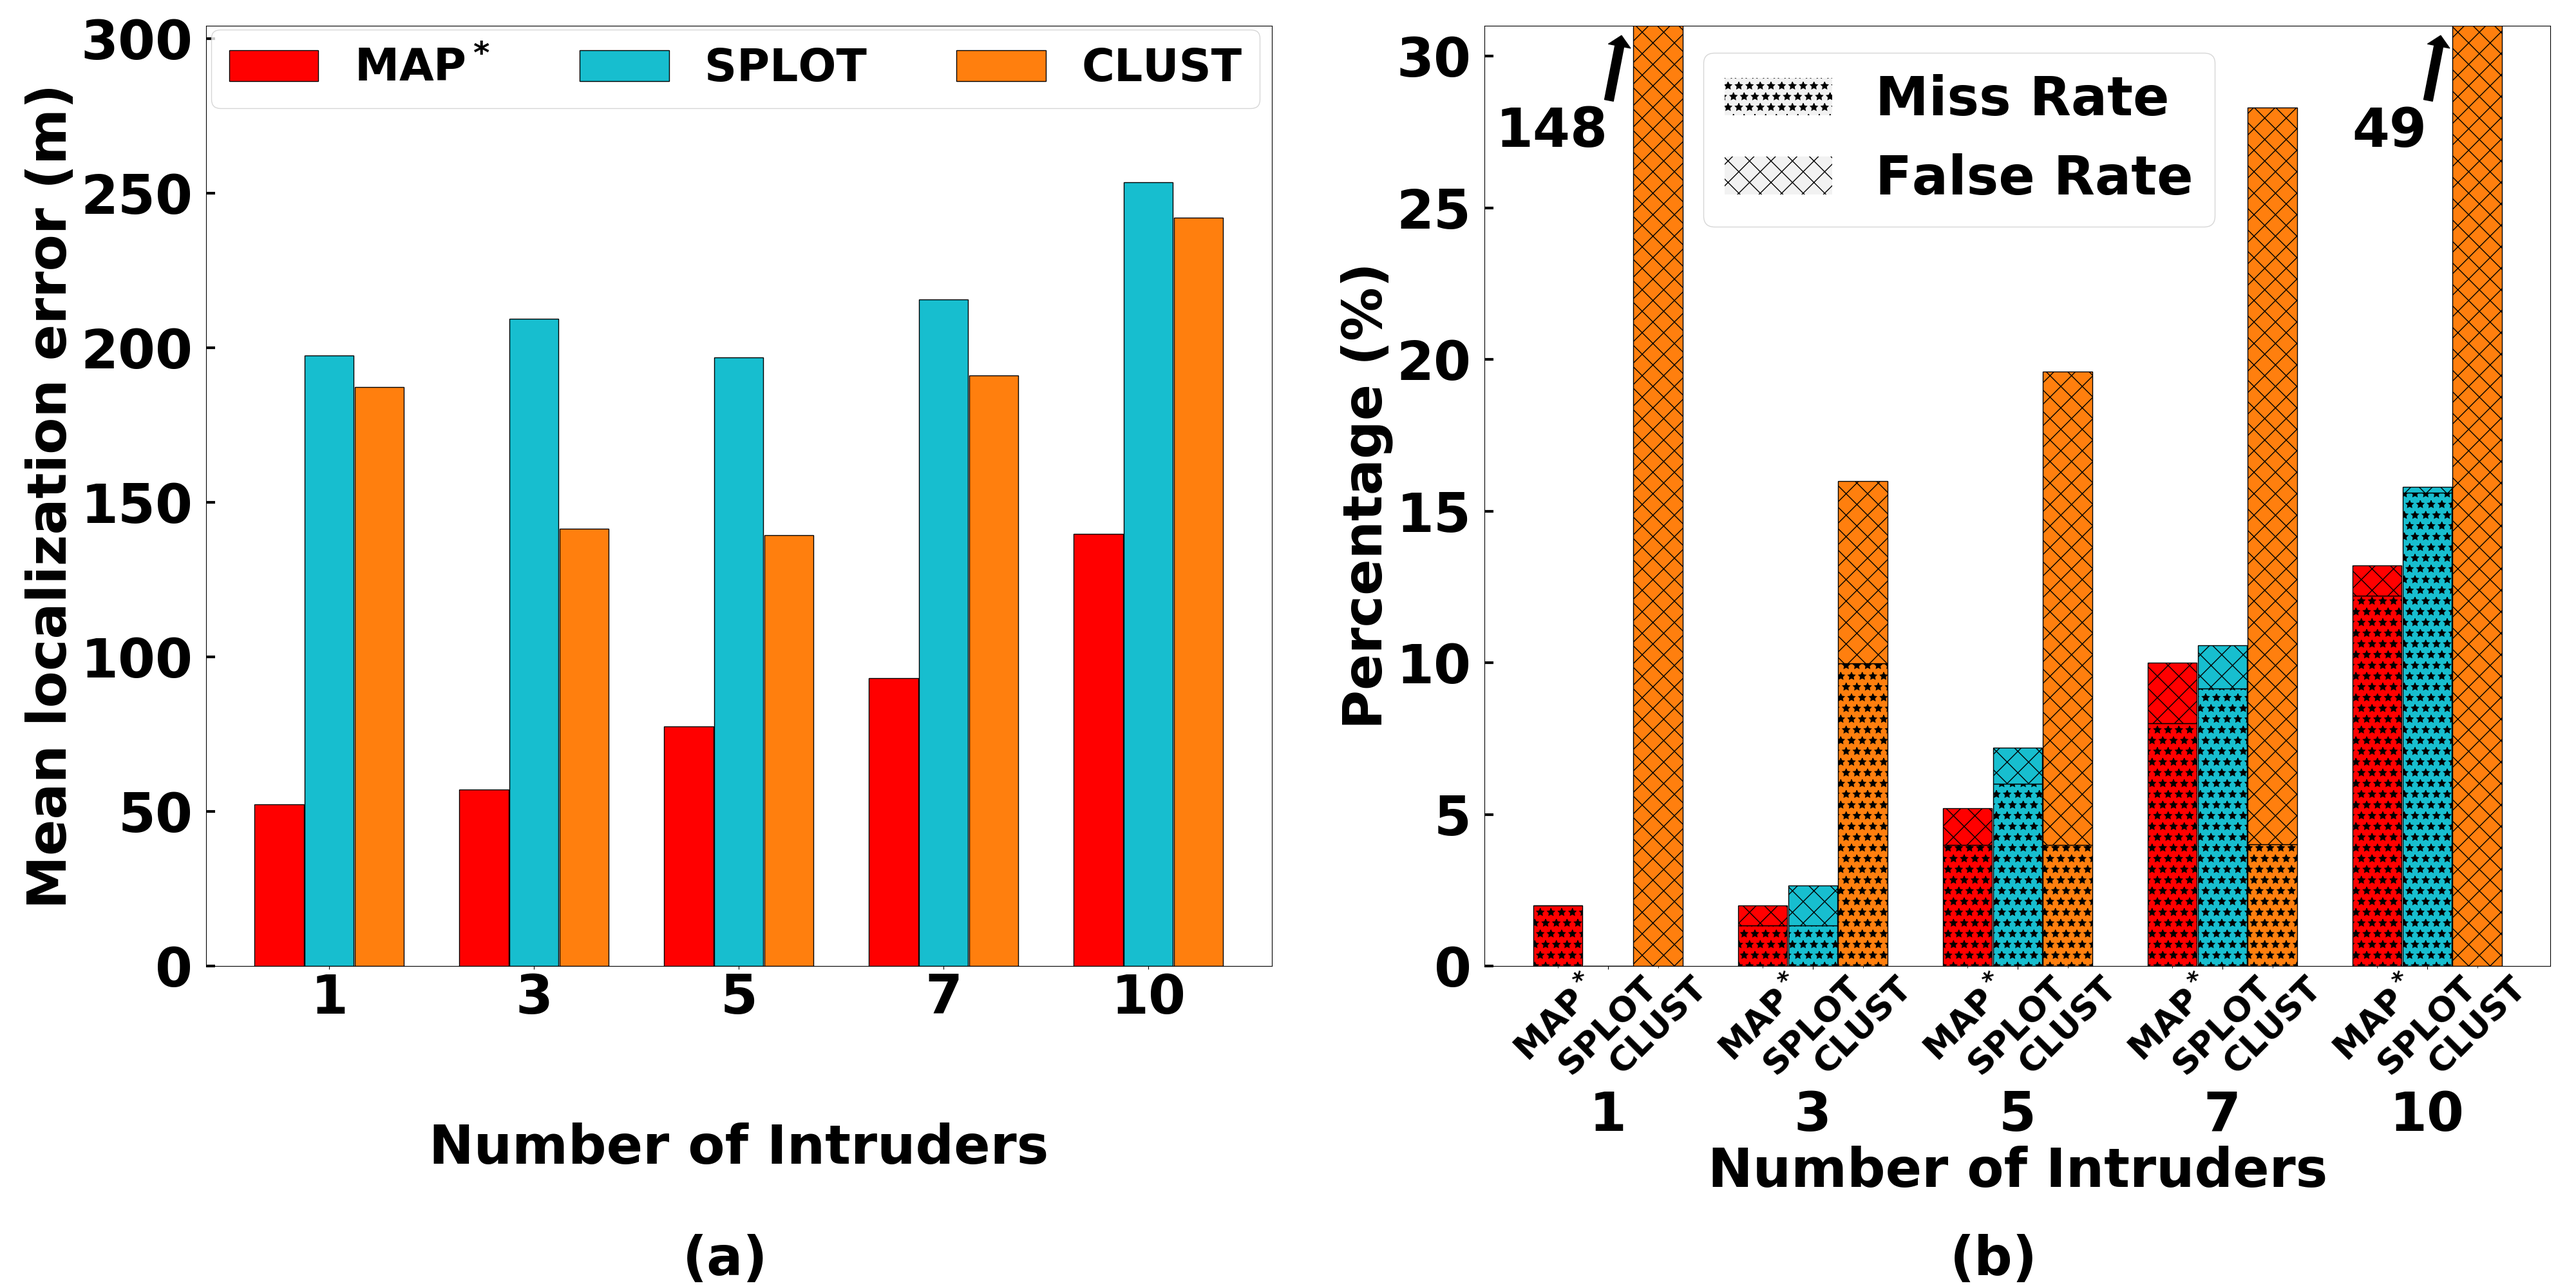
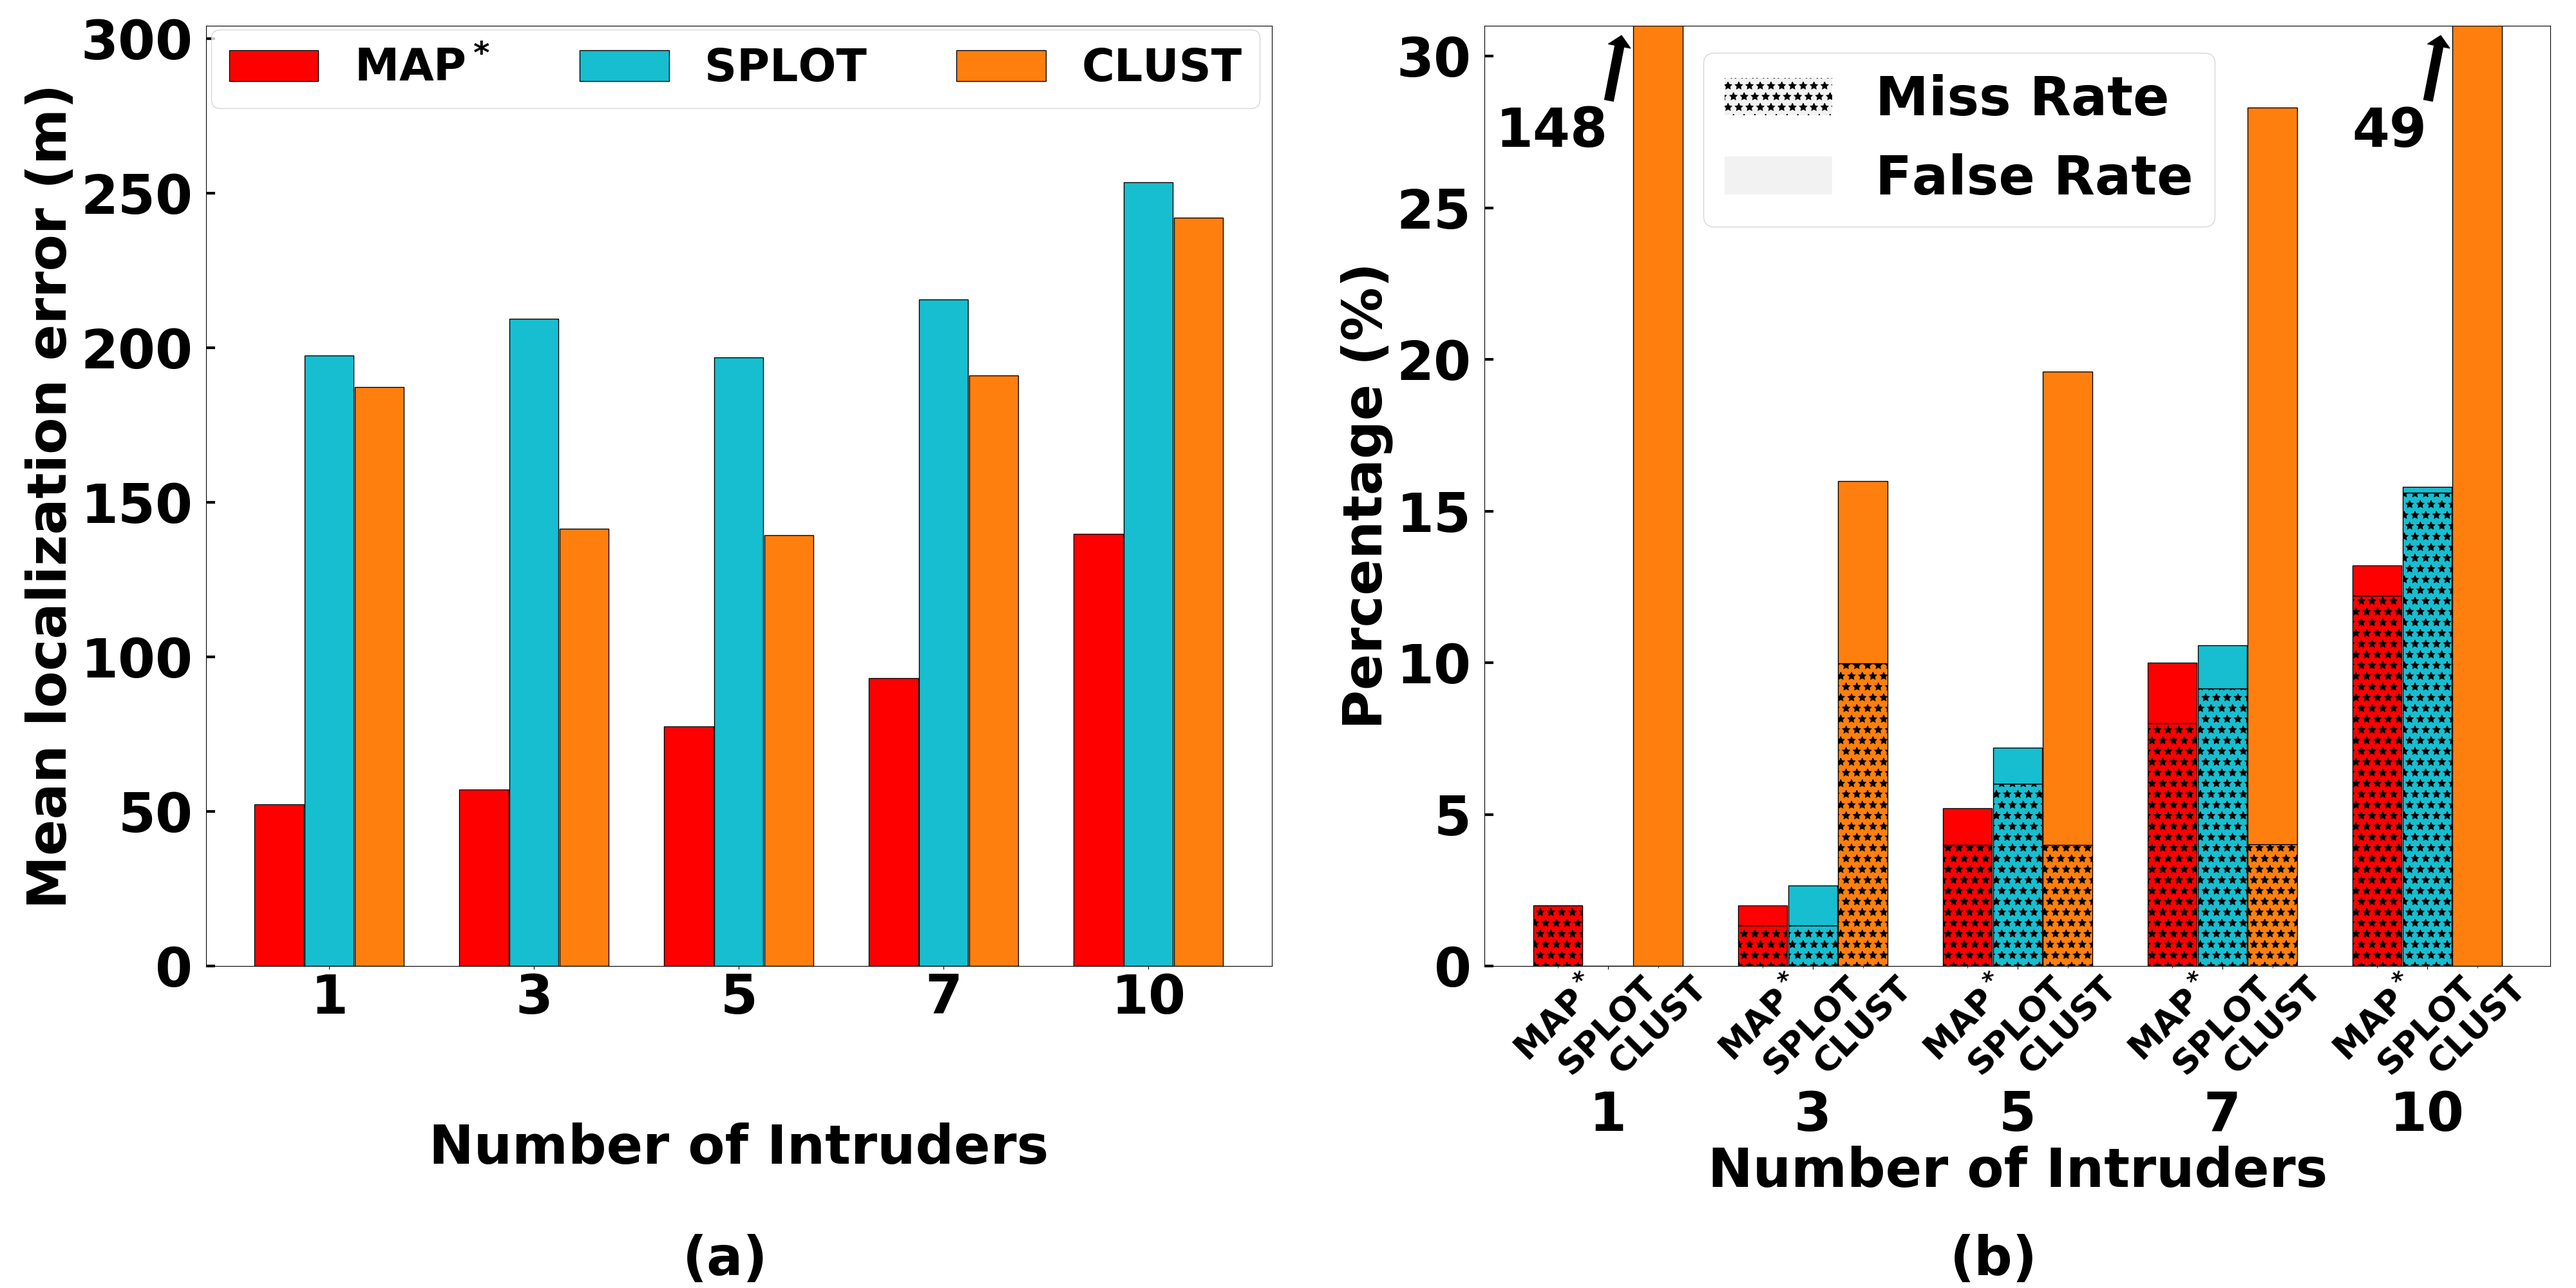
update the shading

diff --git a/plot_result.py b/plot_result.py
@@ -18,6 +18,9 @@ except:
     print('Import error')
 
 
+LATEX_DIR = '/home/caitao/Project/latex/IPSN-20-Camera/figures'
+
+
 class PlotResult:
     '''Class for plotting results
     '''
@@ -27,7 +30,7 @@ class PlotResult:
     COLOR  = dict(zip(METHOD, _COLOR))
 
     METRIC = ['miss', 'false']
-    _HATCH = ['*', 'x']
+    _HATCH = ['*', '']
     HATCH  = dict(zip(METRIC, _HATCH))
 
     plt.rcParams['font.size'] = 60
@@ -516,12 +519,17 @@ class PlotResult:
         ax1.set_xticklabels(minor_lab, minor=True, fontsize=38, rotation=45, weight='bold')
         ax1.tick_params(axis='x', which='major', pad=135)
         ax1.tick_params(axis='y', direction='in', length=10, width=3, pad=15)
-        plt.ylim([0, 55])
+        # plt.ylim([0, 55]) full training
+        plt.ylim([0, 31])
         plt.ylabel('Percentage (%)')
         plt.figtext(0.265, 0.01, '(a)', weight='bold')
         plt.figtext(0.757, 0.01, '(b)', weight='bold')
 
-        ax1.annotate('153', xy=(0.07, 54.5), xytext=(0.02, 48), arrowprops=dict(facecolor='black', shrink=0.05, width=10, headwidth=25), horizontalalignment='right')
+        # full training
+        # ax1.annotate('153', xy=(0.07, 54.5), xytext=(0.02, 48), arrowprops=dict(facecolor='black', shrink=0.05, width=10, headwidth=25), horizontalalignment='right')
+
+        ax1.annotate('148', xy=(0.07, 30.8), xytext=(0, 27), arrowprops=dict(facecolor='black', shrink=0.05, width=10, headwidth=25), horizontalalignment='right')
+        ax1.annotate('49', xy=(4.07, 30.8), xytext=(4, 27), arrowprops=dict(facecolor='black', shrink=0.05, width=10, headwidth=25), horizontalalignment='right')
 
         plt.savefig(figname)
 
@@ -805,10 +813,10 @@ def indoor_interpolation():
     # PlotResult.error_numintru(data, src='testbed-indoor', train_percent=37, cell_len=IndoorMap.cell_len)
     # PlotResult.missfalse_numintru(data, src='testbed-indoor', train_percent=37)
 
-    # PlotResult.error_missfalse_numintru(data, src='testbed-indoor', train_percent=37, cell_len=IndoorMap.cell_len, figname='plot/indoor-error-missfalse.png')
-    PlotResult.power_numintru(data, src='testbed-indoor', train_percent=37)
+    PlotResult.error_missfalse_numintru(data, src='testbed-indoor', train_percent=37, cell_len=IndoorMap.cell_len, figname='plot/indoor-error-missfalse.png')
+    # PlotResult.power_numintru(data, src='testbed-indoor', train_percent=37)
     print('indoor intepolation')
-    # shutil.copy('plot/indoor-error-missfalse.png', '/home/caitao/Project/latex/localize/ipsn/figures')
+    shutil.copy('plot/indoor-error-missfalse.png', LATEX_DIR)
     print('\n\n')
 
 def outdoor_interpolation():
@@ -819,9 +827,9 @@ def outdoor_interpolation():
     # PlotResult.error_numintru(data, src='testbed-indoor', train_percent=37, cell_len=IndoorMap.cell_len)
     # PlotResult.missfalse_numintru(data, src='testbed-indoor', train_percent=37)
 
-    # PlotResult.error_missfalse_numintru(data, src='testbed-outdoor', train_percent=18, cell_len=OutdoorMap.cell_len, figname='plot/outdoor-error-missfalse.png')
-    PlotResult.power_numintru(data, src='testbed-outdoor', train_percent=18)
-    shutil.copy('plot/outdoor-error-missfalse.png', '/home/caitao/Project/latex/localize/ipsn/figures')
+    PlotResult.error_missfalse_numintru(data, src='testbed-outdoor', train_percent=18, cell_len=OutdoorMap.cell_len, figname='plot/outdoor-error-missfalse.png')
+    # PlotResult.power_numintru(data, src='testbed-outdoor', train_percent=18)
+    shutil.copy('plot/outdoor-error-missfalse.png', LATEX_DIR)
     print('outdoor intepolation')
     print('\n\n')
 
@@ -837,26 +845,30 @@ def splat_vary_traindata():
     data = IOUtility.read_logs(logs)
     PlotResult.error_missfalse_vary_training(data, src='splat', num_intruder=Default.num_intruder, sensor_density=Default.sen_density, cell_len=SplatMap.cell_len, figname='plot/splat-vary-training')
     print('varying training data')
-    shutil.copy('plot/splat-vary-training.png', '/home/caitao/Project/latex/localize/ipsn/figures')
+    shutil.copy('plot/splat-vary-training.png', LATEX_DIR)
     print('\n\n')
 
 
 def splat_vary_numintru():
     '''Vaires amount of training data
     '''
-    # logs = ['results/10.21/log-num-1', 'results/10.21/log-num-3', 'results/10.21/log-num-5', \
-    #         'results/10.21/log-num-7', 'results/10.21/log-num-10']
-    # logs = logs + ['results/10.21-2/log-num-1', 'results/10.21-2/log-num-3', 'results/10.21-2/log-num-5', \
-    #                'results/10.21-2/log-num-7', 'results/10.21-2/log-num-10']
+    logs = ['results/10.21/log-num-1', 'results/10.21/log-num-3', 'results/10.21/log-num-5', \
+            'results/10.21/log-num-7', 'results/10.21/log-num-10']
+    logs = logs + ['results/10.21-2/log-num-1', 'results/10.21-2/log-num-3', 'results/10.21-2/log-num-5', \
+                   'results/10.21-2/log-num-7', 'results/10.21-2/log-num-10']
+    data = IOUtility.read_logs(logs)
+    PlotResult.error_missfalse_vary_numintru(data, src='splat', train_gran=Default.training_gran, sensor_density=Default.sen_density, cell_len=SplatMap.cell_len, figname='plot/splat-vary-numintru')
+
+    '''full training, remember to change Default.training_gran to 40
     logs = ['results/10.25/log-num-1', 'results/10.25/log-num-3', 'results/10.25/log-num-5', \
                    'results/10.25/log-num-7', 'results/10.25/log-num-10']
     data = IOUtility.read_logs(logs)
     PlotResult.error_missfalse_vary_numintru(data, src='splat', train_gran=Default.training_gran, sensor_density=Default.sen_density, cell_len=SplatMap.cell_len, figname='plot/splat-vary-numintru-fulltrain')
-    # shutil.copy('plot/splat-vary-numintru.png', '/home/caitao/Project/latex/localize/ipsn/figures')
+    '''
     # PlotResult.power_numintru(data, src='splat', train_percent=9)
     # PlotResult.time_numintru(data, src='splat', train_percent=9)
     print('varying number of intruders')
-    # shutil.copy('plot/splat-vary-numintru.png', '/home/caitao/Project/latex/localize/ipsn/figures')
+    shutil.copy('plot/splat-vary-numintru.png', LATEX_DIR)
     print('\n\n')
 
 
@@ -864,16 +876,20 @@ def splat_vary_numintru():
 def splat_vary_sendensity():
     '''Varies sensor density
     '''
-    # logs = ['results/10.21-4/log-sen-80', 'results/10.21-4/log-sen-160', 'results/10.21-4/log-sen-240', \
-                #    'results/10.21-4/log-sen-320', 'results/10.21-4/log-sen-400']
+    logs = ['results/10.21-4/log-sen-80', 'results/10.21-4/log-sen-160', 'results/10.21-4/log-sen-240', \
+                    'results/10.21-4/log-sen-320', 'results/10.21-4/log-sen-400']
+    data = IOUtility.read_logs(logs)
+    PlotResult.error_missfalse_vary_sendensity(data, src='splat', train_gran=Default.training_gran, num_intruder=Default.num_intruder, cell_len=SplatMap.cell_len, figname='plot/splat-vary-sendensity')
 
+    '''full training
     logs = ['results/10.25/log-sen-80', 'results/10.25/log-sen-160', 'results/10.25/log-sen-240', \
                    'results/10.25/log-sen-320', 'results/10.25/log-sen-400']
-
     data = IOUtility.read_logs(logs)
     PlotResult.error_missfalse_vary_sendensity(data, src='splat', train_gran=Default.training_gran, num_intruder=Default.num_intruder, cell_len=SplatMap.cell_len, figname='plot/splat-vary-sendensity-fulltrain')
+    '''
+
     print('varying sensor density')
-    # shutil.copy('plot/splat-vary-sendensity.png', '/home/caitao/Project/latex/localize/ipsn/figures')
+    shutil.copy('plot/splat-vary-sendensity.png', LATEX_DIR)
     print('\n\n')
 
 
@@ -885,9 +901,10 @@ def splat_vary_numauthorized():
     logs = ['results/10.23-2/log-num-1', 'results/10.23-2/log-num-3', 'results/10.23-2/log-num-5', \
             'results/10.23-2/log-num-7', 'results/10.23-2/log-num-10']
     data = IOUtility.read_logs(logs)
+    Default.num_authorized = 5
     PlotResult.error_missfalse_vary_numauthorized(data, src='splat', train_gran=Default.training_gran, num_authorized=Default.num_authorized, sen_density=Default.sen_density, cell_len=SplatMap.cell_len, figname='plot/splat-vary-numauthorized')
     print('varying number of authorized users')
-    shutil.copy('plot/splat-vary-numauthorized.png', '/home/caitao/Project/latex/localize/ipsn/figures')
+    shutil.copy('plot/splat-vary-numauthorized.png', LATEX_DIR)
     print('\n\n')
 
 
@@ -899,6 +916,6 @@ if __name__ == '__main__':
     # indoor_interpolation()
     # outdoor_interpolation()
     # splat_vary_traindata()
-    splat_vary_numintru()
+    # splat_vary_numintru()
     # splat_vary_sendensity()
-    # splat_vary_numauthorized()
+    splat_vary_numauthorized()

diff --git a/loc_default_config.py b/loc_default_config.py
@@ -6,7 +6,7 @@ import json
 
 class Default:
     grid_len       = 40
-    training_gran  = 40    # [6, 8, 10, 12, 14, 16, 18]
+    training_gran  = 12    # [6, 8, 10, 12, 14, 16, 18]
     num_intruder   = 5     # [1, 3, 5, 7, 10]
     sen_density    = 240   # [80, 160, 240, 320, 400]
     num_authorized = 0     # the default values can be 0 or 5 NOTE: watchout! it is 5 only in the shared spectrum experiments.
